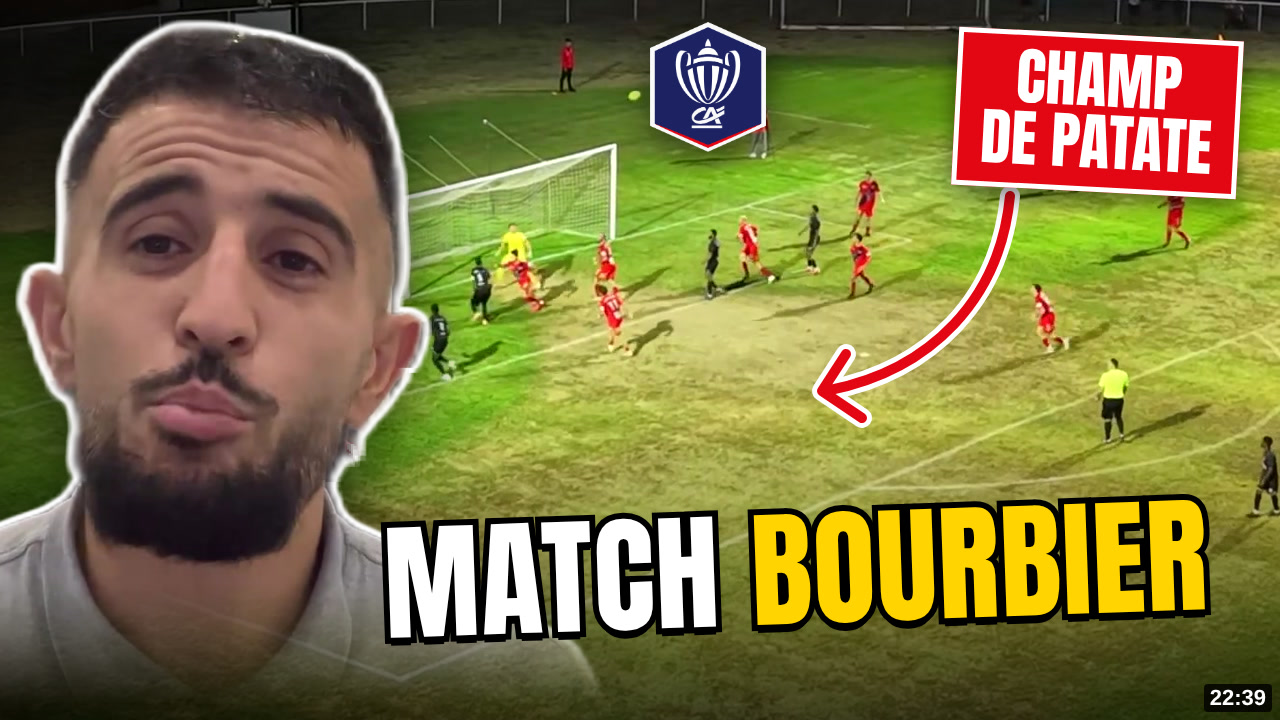
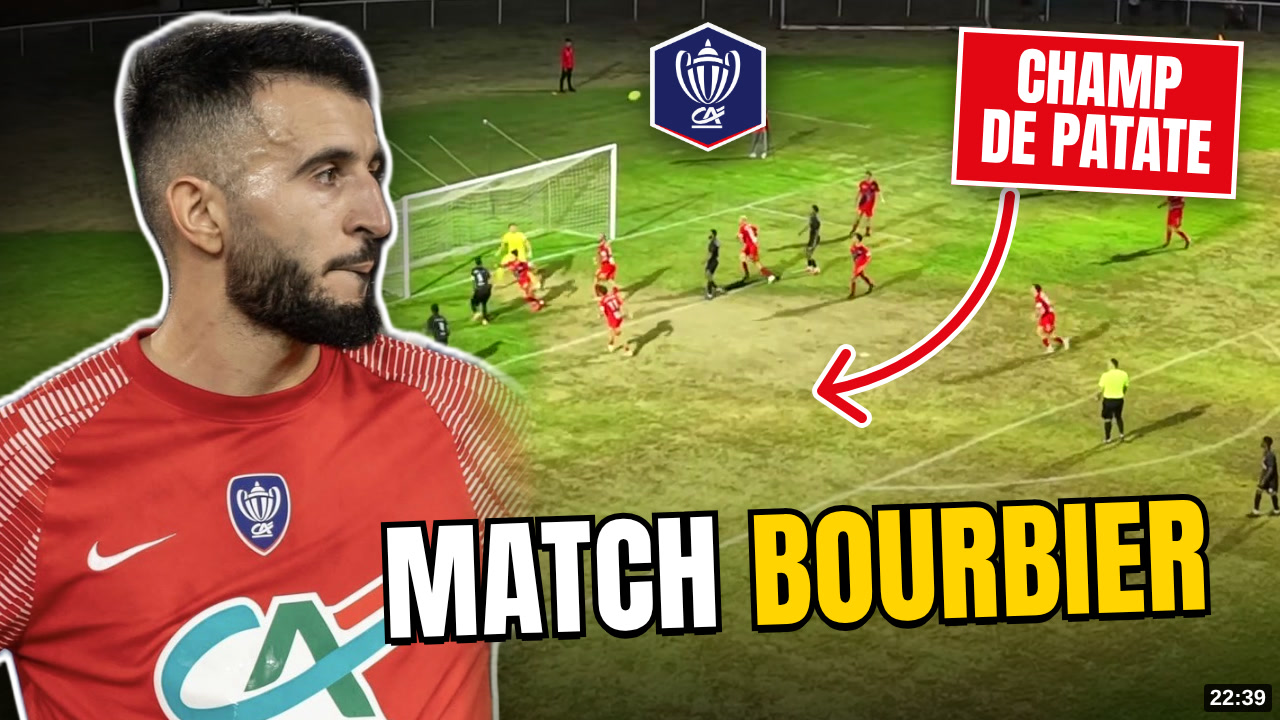
Miniature « Match bourbier » : Achraf en maillot Coupe de France (photo d'Adel)
Claude-Session: https://claude.ai/code/session_014TSQZwZDGJSwum3Y2G7tTj

Changed region(s): [[0.0, 0.0, 0.4688, 1.0]]

diff --git a/miniatures/bourbier-r3/index.html b/miniatures/bourbier-r3/index.html
@@ -16,8 +16,9 @@
     background: linear-gradient(180deg, rgba(0,0,0,0) 55%, rgba(0,0,0,.7) 100%),
                 linear-gradient(90deg, rgba(0,0,0,.6) 0%, rgba(0,0,0,0) 38%); }
 
-  /* Achraf, détouré dans l'épisode à 7:08 (428 s), avec le liseré blanc des miniatures */
-  #achraf { position: absolute; left: -696px; top: -79px; width: 1824px; -webkit-mask-image: linear-gradient(180deg, #000 82%, transparent 97%);
+  /* Achraf en maillot Coupe de France (photo envoyée par Adel le 23/10/2026), détouré, avec le liseré blanc des miniatures */
+  #achraf { position: absolute; left: -82px; top: -153px; width: 630px;
+    -webkit-mask-image: linear-gradient(90deg, #000 86%, transparent 99%), linear-gradient(180deg, #000 80%, transparent 99%); -webkit-mask-composite: source-in;
     filter: drop-shadow(5px 0 0 #fff) drop-shadow(-5px 0 0 #fff) drop-shadow(0 5px 0 #fff) drop-shadow(0 -5px 0 #fff)
             drop-shadow(0 14px 28px rgba(0,0,0,.65)); }
 
@@ -49,7 +50,7 @@
     <path d="M1010 196 C 1000 300, 930 370, 830 390" fill="none" stroke="#e30613" stroke-width="10" stroke-linecap="round" />
     <path d="M846 354 L 822 391 L 862 418" fill="none" stroke="#e30613" stroke-width="10" stroke-linecap="round" stroke-linejoin="round" />
   </svg>
-  <img id="achraf" src="medias/achraf-ep-net.png" alt="" />
+  <img id="achraf" src="medias/achraf-maillot-cdf.png" alt="" />
   <img id="cdf" src="medias/cdf-blason.png" alt="" />
   <div id="etiquette">CHAMP<br>DE PATATE</div>
   <div id="titre"><span class="blanc">MATCH </span><span class="jaune">BOURBIER</span></div>

diff --git a/README.md b/README.md
@@ -257,7 +257,7 @@ Fabriquer : `cd matchs-amicaux-4 ; outils/preparer-video.sh ; outils/rendre.sh m
 Miniature de l'épisode « Match bourbier contre cette R3 » (Coupe de France, 3ᵉ tour, chaîne Achh10), validée par Adel le 23/10/2026 (« garde celle de base ») : `miniatures/bourbier-r3/rendus/miniature-bourbier-r3.jpg`, 1280×720, 225 Ko (YouTube accepte jusqu'à 2 Mo). Elle remplace une version faite par ChatGPT, qui faisait « IA » (faux joueurs, faux maillot rouge, logo redessiné). Ici, rien n'est généré par IA : tout vient de l'épisode.
 
 - Fond : la vue de drone à 15:12 (912 s) de l'épisode, recadrée pour enlever le tableau d'affichage. On y voit le terrain pelé.
-- Achraf : détouré dans l'épisode à 7:08 (428 s) avec `npx hyperframes remove-background`. Un bout de fauteuil rouge derrière la nuque a été retiré à la main.
+- Achraf : la photo en maillot Coupe de France envoyée par Adel le 23/10/2026 (`a-monter/bourbier/achraf-maillot-cdf.jpg`), détourée avec `npx hyperframes remove-background`. La première version prenait son visage dans l'épisode à 7:08 (`medias/achraf-ep-net.png`, gardé).
 - Le blason Coupe de France officiel (envoyé par Adel), l'étiquette « CHAMP DE PATATE » et sa flèche, le titre « MATCH BOURBIER » en Anton (licence OFL).
 - Le coin en bas à droite reste libre pour la durée affichée par YouTube. La miniature passe le test de lecture à 120 px de large.
 
